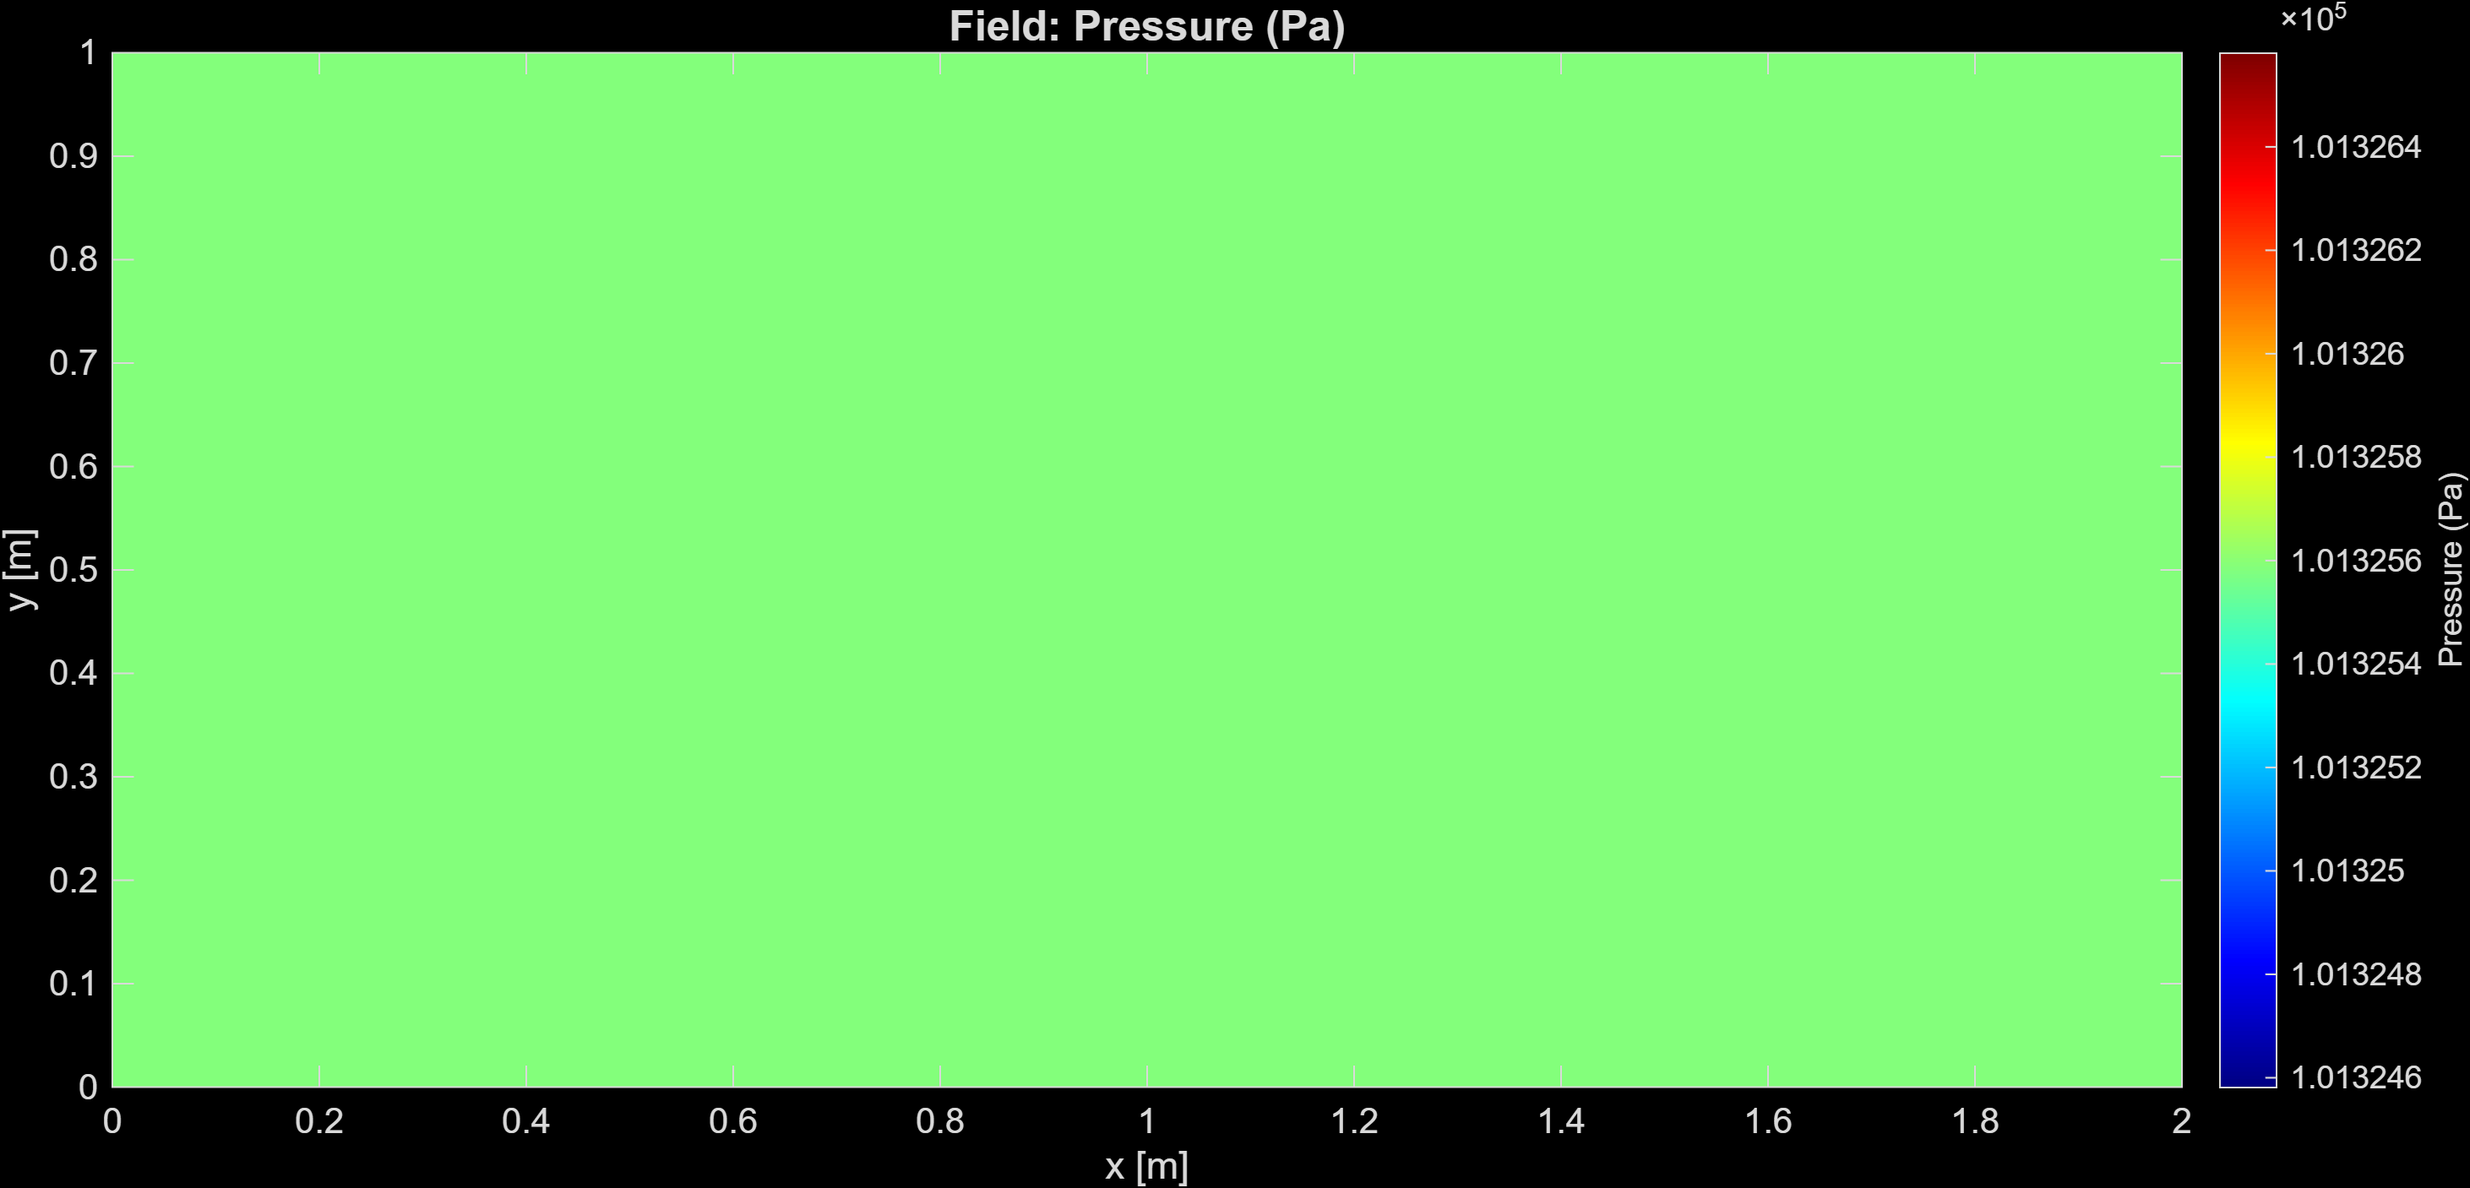
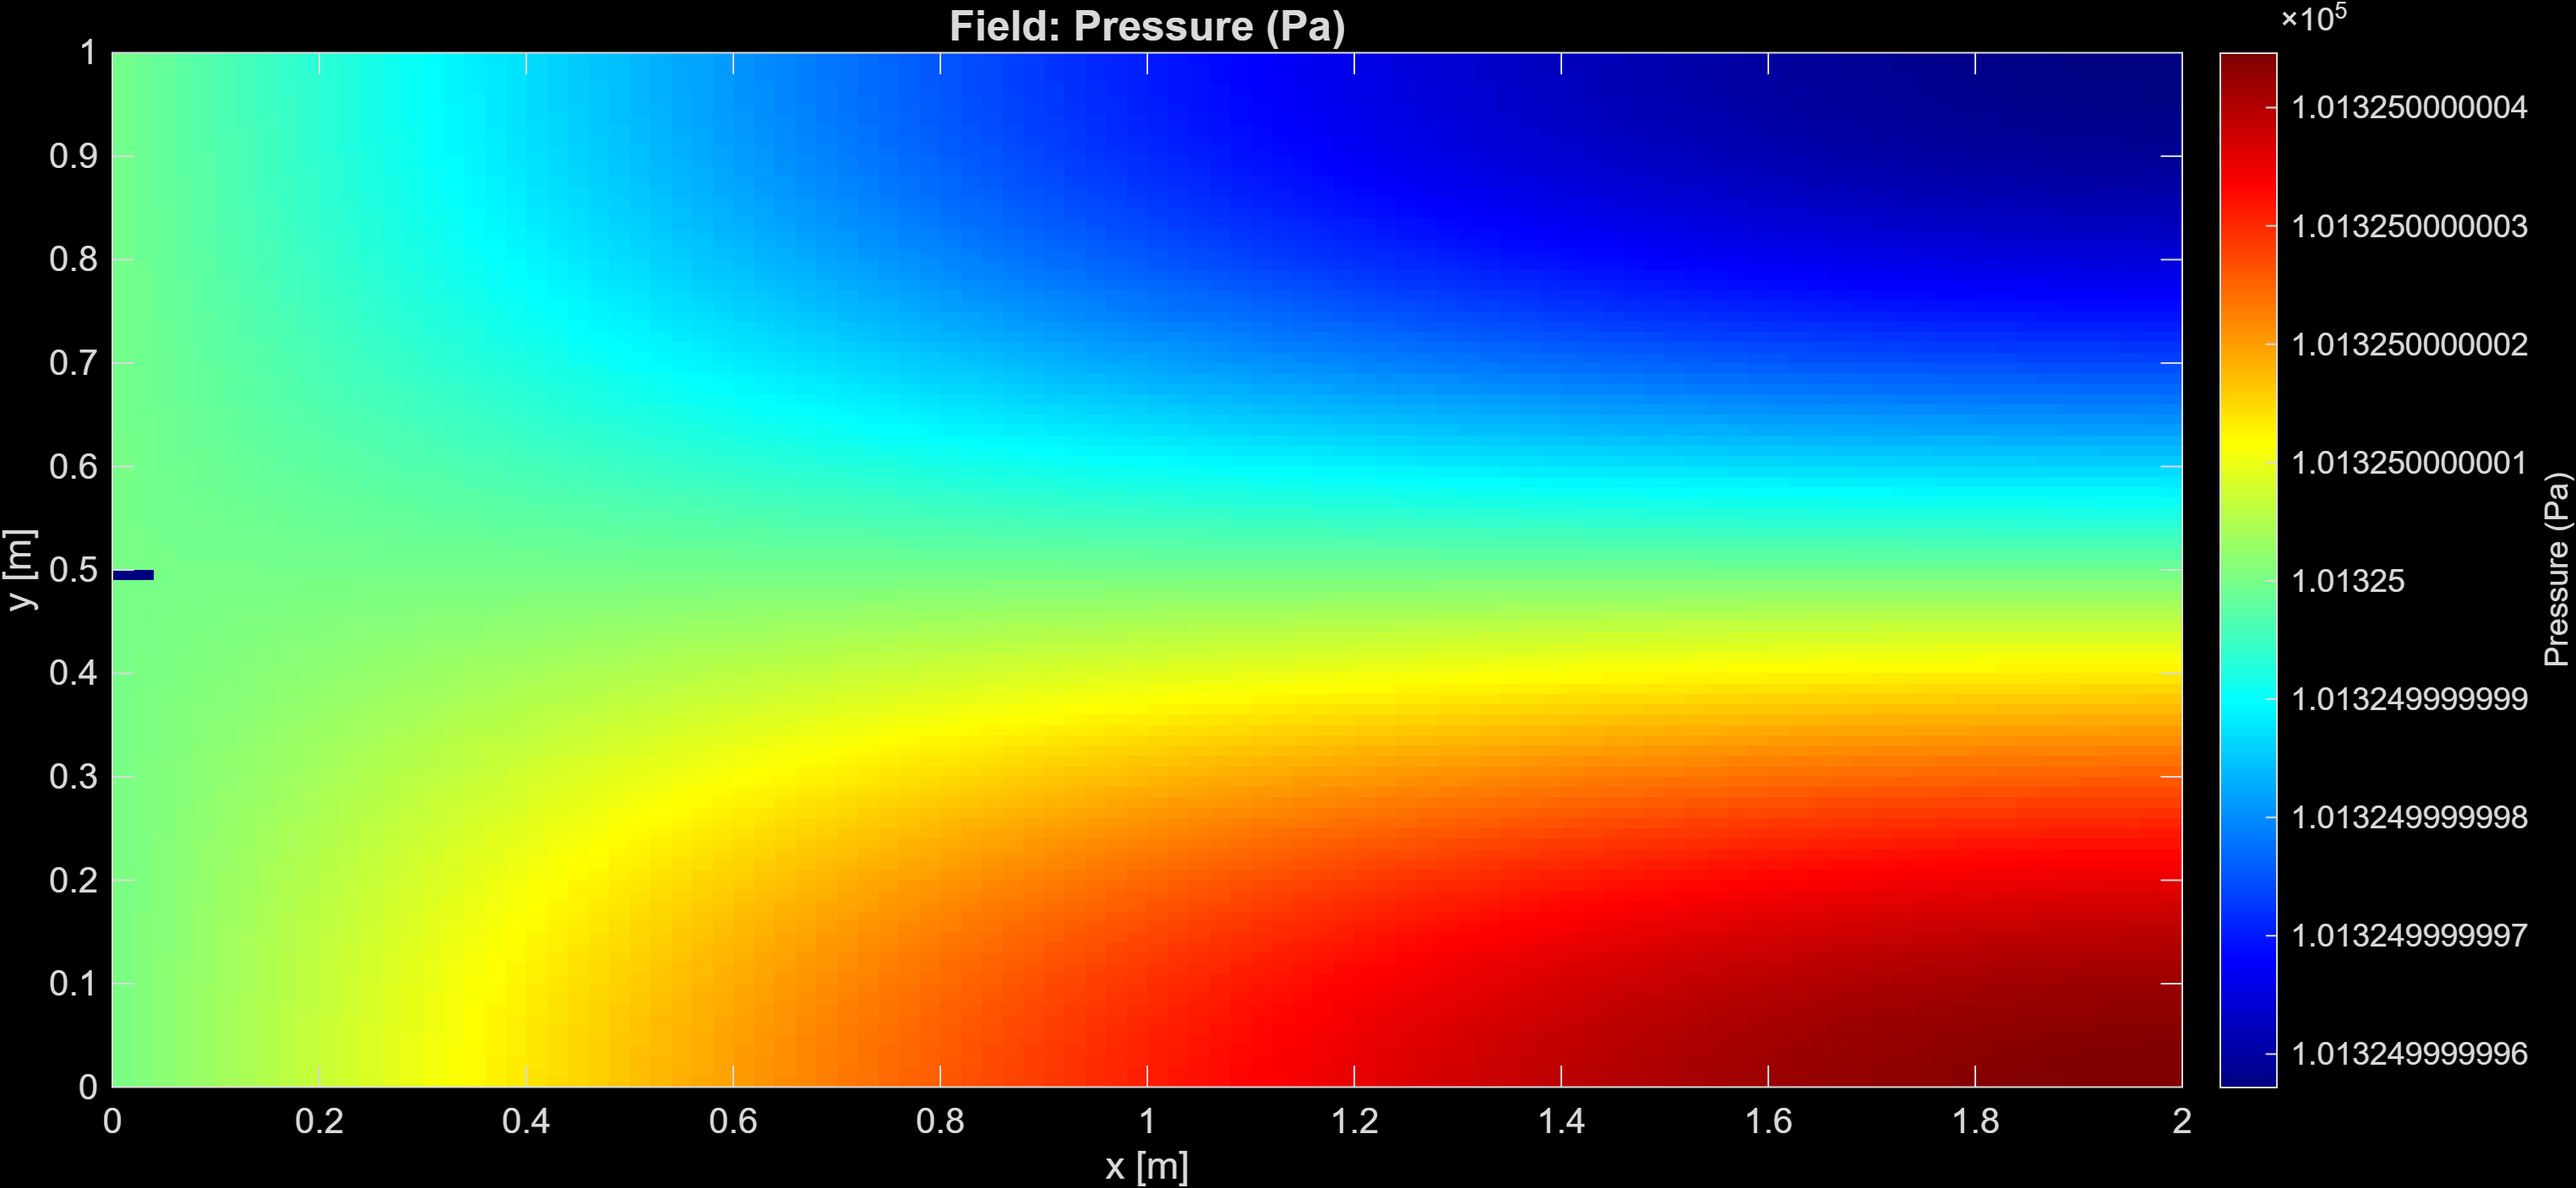
Case 1 fixed

diff --git a/Computacional/E1/displayFlowPattern.m b/Computacional/E1/displayFlowPattern.m
@@ -2,7 +2,8 @@ function displayFlowPattern(streamFunc, gridX, gridY)
 % DISPLAYFLOWPATTERN Plots streamlines using stream function contours
 %
 % Generates a streamline visualization by contouring the stream function
-% values over a computational grid.
+% values over a computational grid. Automatically adjusts contour levels
+% based on the stream function range.
 %
 % Inputs:
 %   streamFunc - Stream function values at grid points (ny+2, nx+2)
@@ -13,10 +14,24 @@ function displayFlowPattern(streamFunc, gridX, gridY)
 %   Graphical streamline contour plot
 %
 % Notes:
-%   Creates 30 streamline contours in black color
+%   Adaptively creates streamline contours in black color
 %--------------------------------------------------------------------------
 
     [meshX, meshY] = meshgrid(gridX, gridY);
-    contour(meshX, meshY, streamFunc, 30, 'k', 'LineWidth', 0.01);
+    
+    % Get the range of stream function values (excluding boundary padding)
+    psi_min = min(streamFunc(:));
+    psi_max = max(streamFunc(:));
+    psi_range = psi_max - psi_min;
+    
+    % Create adaptive contour levels to ensure visibility
+    if psi_range > 0
+        % Generate 30 levels evenly spaced across the actual range
+        levels = linspace(psi_min + 0.01*psi_range, psi_max - 0.01*psi_range, 30);
+        contour(meshX, meshY, streamFunc, levels, 'k', 'LineWidth', 0.01);
+    else
+        % If range is zero or very small, create synthetic levels
+        contour(meshX, meshY, streamFunc, 30, 'k', 'LineWidth', 0.01);
+    end
 
 end

diff --git a/Computacional/E1/main.m b/Computacional/E1/main.m
@@ -12,7 +12,7 @@ clearvars; close all; clc;
 %% Obstacle Geometry Definition
 [cylX, cylY, fluidMask, angularPos] = defineObstacles(domain, gridX, gridY, solver);
 if simCase == 1
-    fluidMask = fluidMask * 0;  % Remove obstacle for open channel case
+    fluidMask = ones(size(fluidMask));  % Entire domain is fluid for open channel case
 end
 
 %% Field Initialization
